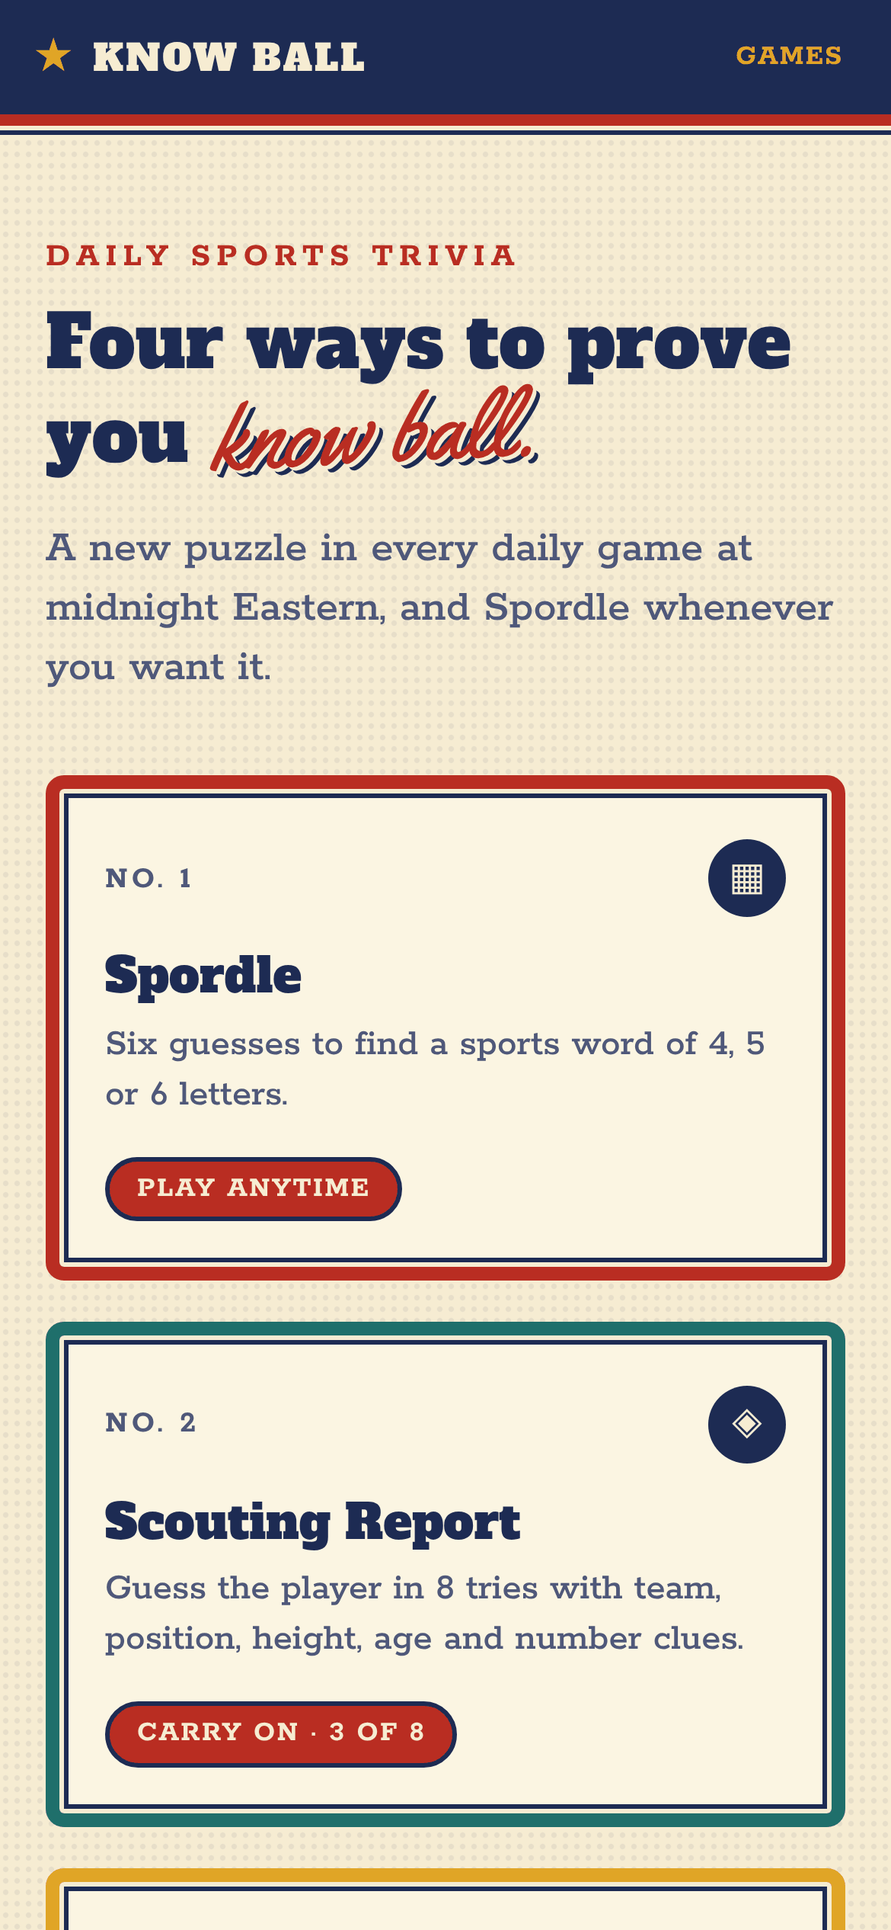
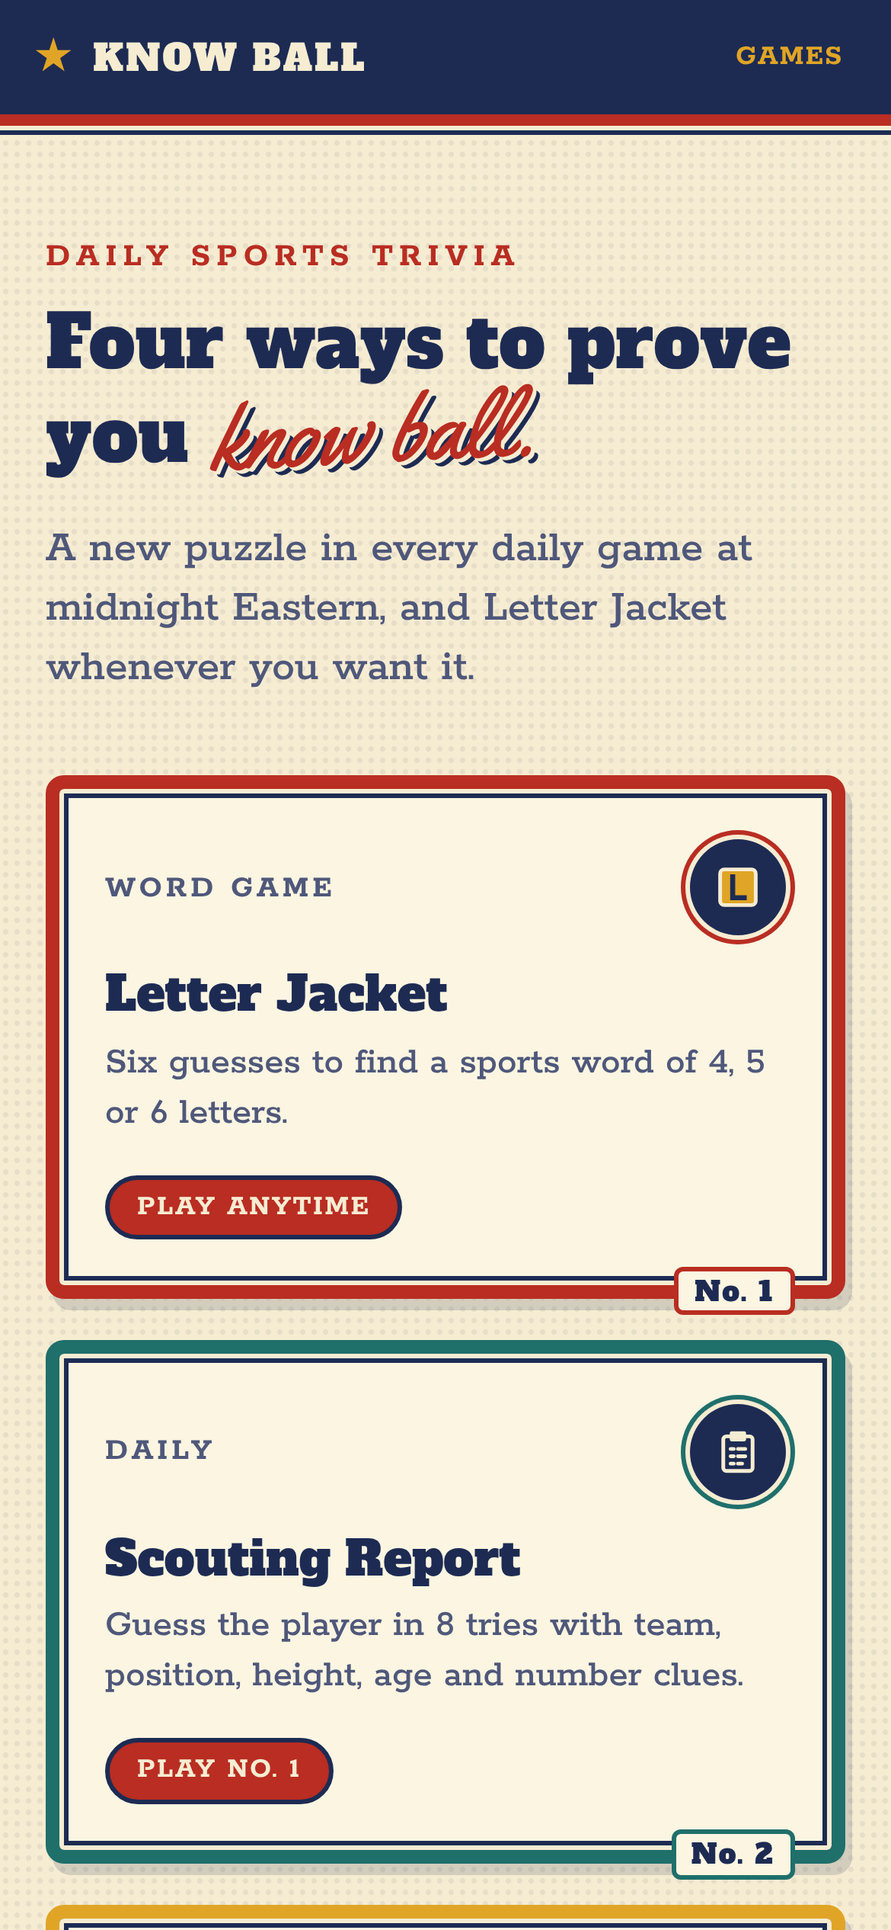
Rename the word game to Letter Jacket and clear naming risks
- Show Spordle as Letter Jacket at /letter-jacket; /spordle redirects. The
  API, settings, stored data and code keep the Spordle name.
- Share results with Know Ball's own dot marks instead of coloured squares.
- Retire the Sportle working name in favour of Back of the Card.
- Add "Not affiliated with or endorsed by the NBA, NFL, MLB or NHL." to the
  footer and README.
- Drop source game names from comments and docs; record the name check in
  docs/research.md and a naming rule in AGENTS.md.
- Refresh the social card, manifest, sitemap, metadata and screenshots.

Claude-Session: https://claude.ai/code/session_01LorK6ftoP2WkdhhDNAoGc3

diff --git a/web/know-ball/src/app/games/spordle/spordle.ts b/web/know-ball/src/app/games/spordle/spordle.ts
@@ -4,15 +4,26 @@ import { NextGame } from '../../shared/next-game/next-game';
 import { Tilt } from '../../shared/tilt/tilt';
 import { SpordleKeyboard } from './keyboard';
 import { HintType } from './spordle-api';
-import { MAX_ATTEMPTS, SpordleGame } from './spordle-game';
+import { Attempt, MAX_ATTEMPTS, SpordleGame } from './spordle-game';
+import { LetterStatus } from './scoring';
 import { WORD_LENGTHS, WordLength, formatTime, getStats, resetStats } from './spordle-stats';
 import { SpordleGrid } from './word-grid';
 
 const MESSAGE_MS = 3000;
 
+/** Know Ball's own share marks: a filled dot for a letter in its spot, half for elsewhere, empty for a miss. */
+export const SHARE_MARKS: Record<LetterStatus, string> = { correct: '●', present: '◐', absent: '○' };
+
+/** The text a finished game shares: a headline, one row of marks per guess, and the link. */
+export function shareResult(attempts: readonly Attempt[], won: boolean, wordLength: number): string {
+  const rows = attempts.map((a) => a.score.map((s) => SHARE_MARKS[s]).join(' '));
+  return [`Know Ball · Letter Jacket ${won ? attempts.length : 'X'}/${MAX_ATTEMPTS} (${wordLength} letters)`, ...rows,
+    'https://knowball.nathanzimmerman.com/letter-jacket'].join('\n');
+}
+
 /**
- * Spordle: guess the sports word in six tries. Plays like Nerdle (random word per game,
- * 4, 5 or 6 letters, category and letter hints, stats per word length) in Know Ball's look.
+ * Letter Jacket (called Spordle in the code): guess the sports word in six tries. A random word per
+ * game, 4, 5 or 6 letters, category and letter hints, and stats per word length, in Know Ball's look.
  */
 @Component({
   selector: 'app-spordle',
@@ -20,9 +31,9 @@ const MESSAGE_MS = 3000;
   providers: [SpordleGame],
   host: { '(window:keydown)': 'onKeydown($event)' },
   template: `
-    <section class="spordle" aria-label="Spordle game">
+    <section class="spordle" aria-label="Letter Jacket game">
       <header class="top kb-game-top">
-        <h1 class="kb-wordmark">Spordle</h1>
+        <h1 class="kb-wordmark">Letter Jacket</h1>
         <div class="kb-icons">
           <button type="button" class="kb-icon" aria-label="How to play" title="How to play" (mousedown)="$event.preventDefault()" (click)="open(helpDialog)">?</button>
           <button type="button" class="kb-icon" aria-label="Stats" title="Stats" (mousedown)="$event.preventDefault()" (click)="openStats()">
@@ -92,7 +103,7 @@ const MESSAGE_MS = 3000;
           <div class="kb-result-next">
             <button type="button" class="kb-btn primary" (mousedown)="$event.preventDefault()" (click)="share()">{{ shareLabel() }}</button>
             <button type="button" class="kb-btn" (mousedown)="$event.preventDefault()" (click)="requestNewGame()">Play again</button>
-            <app-next-game current="spordle" />
+            <app-next-game current="letter-jacket" />
           </div>
         </div>
       } @else {
@@ -423,10 +434,7 @@ export class Spordle {
   protected async share(): Promise<void> {
     const result = this.game.result();
     if (!result) return;
-    const rows = this.game.attempts().map((a) => a.score.map((s) => (s === 'correct' ? '🟩' : s === 'present' ? '🟨' : '⬜')).join(''));
-    const text = [`Know Ball · Spordle ${result.won ? result.guesses : 'X'}/6 (${this.game.wordLength()} letters)`, ...rows,
-      'https://knowball.nathanzimmerman.com/spordle'].join('\n');
-    const outcome = await shareText(text);
+    const outcome = await shareText(shareResult(this.game.attempts(), result.won, this.game.wordLength()));
     this.shareLabel.set(outcome === 'copied' ? 'Copied' : outcome === 'failed' ? 'Could not copy' : 'Share');
     if (outcome !== 'shared') setTimeout(() => this.shareLabel.set('Share'), 2500);
   }

diff --git a/web/know-ball/src/app/mockups/games/back-of-the-card.ts b/web/know-ball/src/app/mockups/games/back-of-the-card.ts
@@ -9,11 +9,11 @@ const chartX = (i: number): number => 30 + i * (274 / (PPG.length - 1));
 const chartY = (ppg: number): number => 132 - (ppg - 18) * 7.5;
 
 @Component({
-  selector: 'app-sportle-mock',
+  selector: 'app-back-of-the-card-mock',
   imports: [MockOption],
   template: `
     <section class="mk-game">
-      <h2>Sportle <span class="mk-chip">Phase 3</span></h2>
+      <h2>Back of the Card <span class="mk-chip">Phase 3</span></h2>
       <p class="mk-sub">
         Guess the player from season-by-season numbers with the giveaways hidden. Each miss reveals more: teams first,
         then awards, then position.
@@ -21,10 +21,10 @@ const chartY = (ppg: number): number => 132 - (ppg - 18) * 7.5;
 
       <div class="mk-row">
         <app-mock-option
-          game="sportle"
+          game="back-of-the-card"
           letter="A"
           name="Stat table"
-          bar="Sportle #12"
+          bar="Back of the Card #12"
           plus="Reads like a Basketball-Reference page, which stat fans already know how to scan."
           minus="A wide table on a narrow screen: long careers scroll, and it is the driest of the three."
         >
@@ -53,10 +53,10 @@ const chartY = (ppg: number): number => 132 - (ppg - 18) * 7.5;
         </app-mock-option>
 
         <app-mock-option
-          game="sportle"
+          game="back-of-the-card"
           letter="B"
           name="Trading card back"
-          bar="Sportle #12"
+          bar="Back of the Card #12"
           plus="A strong visual identity of its own, and written hints add personality beyond the numbers."
           minus="Each puzzle needs a few hint lines written or generated, on top of the stats."
         >
@@ -84,10 +84,10 @@ const chartY = (ppg: number): number => 132 - (ppg - 18) * 7.5;
         </app-mock-option>
 
         <app-mock-option
-          game="sportle"
+          game="back-of-the-card"
           letter="C"
           name="Career arc"
-          bar="Sportle #12"
+          bar="Back of the Card #12"
           plus="Shows the shape of a career at a glance; the most original look, and it reuses the charts planned for GOAT."
           minus="One stat at a time, so there is less to go on per screen; needs a charting library."
         >
@@ -161,7 +161,7 @@ const chartY = (ppg: number): number => 132 - (ppg - 18) * 7.5;
     .season span { margin-left: auto; color: var(--muted); font-size: 12px; }
   `,
 })
-export class SportleMock {
+export class BackOfTheCardMock {
   protected readonly rows = [
     { season: '07–08', team: 'SEA', gp: 80, pts: '20.3', reb: '4.4', ast: '2.4', award: 'ROY' },
     { season: '09–10', team: 'OKC', gp: 82, pts: '30.1', reb: '7.6', ast: '2.8', award: 'All-NBA' },

diff --git a/web/know-ball/src/app/pages/home/home.ts b/web/know-ball/src/app/pages/home/home.ts
@@ -52,7 +52,7 @@ const COUNT_WORDS = ['No', 'One', 'Two', 'Three', 'Four'];
     <section class="hero">
       <p class="kicker">Daily sports trivia</p>
       <h1>{{ countWord() }} ways to prove you <span class="script">know ball.</span></h1>
-      <p class="lede">A new puzzle in every daily game at midnight Eastern, and Spordle whenever you want it.</p>
+      <p class="lede">A new puzzle in every daily game at midnight Eastern, and Letter Jacket whenever you want it.</p>
     </section>
 
     <ul class="grid" aria-label="Games">
@@ -69,7 +69,7 @@ const COUNT_WORDS = ['No', 'One', 'Two', 'Three', 'Four'];
                 @switch (card.icon) {
                   @case ('tile') {
                     <rect x="3.5" y="3.5" width="17" height="17" rx="2" fill="var(--mustard)" stroke="var(--cream)" />
-                    <path d="M14.8 8.3c-.6-.8-1.6-1.2-2.8-1.2-1.7 0-2.9.9-2.9 2.2 0 3 6 1.6 6 4.6 0 1.4-1.3 2.4-3.1 2.4-1.3 0-2.4-.5-3-1.4" stroke="var(--navy)" stroke-width="2.2" />
+                    <path d="M9.5 7v10h5.5" stroke="var(--navy)" stroke-width="2.4" stroke-linecap="square" stroke-linejoin="miter" />
                   }
                   @case ('clipboard') {
                     <rect x="5" y="4.5" width="14" height="16.5" rx="1.5" />
@@ -185,7 +185,7 @@ const COUNT_WORDS = ['No', 'One', 'Two', 'Three', 'Four'];
 export class Home {
   /** The four games, in the order the home page shows them. */
   private readonly games: GameCard[] = [
-    { name: 'Spordle', kind: 'Word game', link: '/spordle', icon: 'tile', trim: 'var(--red)', blurb: 'Six guesses to find a sports word of 4, 5 or 6 letters.' },
+    { name: 'Letter Jacket', kind: 'Word game', link: '/letter-jacket', icon: 'tile', trim: 'var(--red)', blurb: 'Six guesses to find a sports word of 4, 5 or 6 letters.' },
     {
       name: 'Scouting Report', kind: 'Daily', link: '/scouting-report', daily: 'scouting-report', icon: 'clipboard', trim: 'var(--teal)',
       blurb: 'Guess the player in 8 tries with team, position, height, age and number clues.',
@@ -199,7 +199,7 @@ export class Home {
   ];
 
   /** Designed but not scheduled; replay numbers after version 1 decide which comes first. */
-  protected readonly later = ['Geo Sports', 'Sportle', 'Sound It Out', "Who's the GOAT?"];
+  protected readonly later = ['Geo Sports', 'Back of the Card', 'Sound It Out', "Who's the GOAT?"];
 
   // Undefined while checking availability; null after a failed request.
   private readonly today = signal<TodayEntry[] | null | undefined>(undefined);

diff --git a/web/know-ball/src/app/games/spordle/spordle.spec.ts b/web/know-ball/src/app/games/spordle/spordle.spec.ts
@@ -2,9 +2,9 @@ import { provideHttpClient, withXhr } from '@angular/common/http';
 import { HttpTestingController, provideHttpClientTesting } from '@angular/common/http/testing';
 import { ComponentFixture, TestBed } from '@angular/core/testing';
 import { useMemoryStorage } from './memory-storage';
-import { Spordle } from './spordle';
+import { Spordle, shareResult } from './spordle';
 
-describe('Spordle page', () => {
+describe('Letter Jacket page', () => {
   let fixture: ComponentFixture<Spordle>;
   let http: HttpTestingController;
   let el: HTMLElement;
@@ -29,7 +29,7 @@ describe('Spordle page', () => {
   afterEach(() => http.verify());
 
   it('starts a game and shows the board, keyboard and hint buttons', () => {
-    expect(el.querySelector('h1')?.textContent).toBe('Spordle');
+    expect(el.querySelector('h1')?.textContent).toBe('Letter Jacket');
     expect(el.querySelectorAll('.row').length).toBe(6);
     expect(el.querySelectorAll('.key').length).toBe(28);
     expect(el.querySelector('.status')?.textContent).toBe('Guess 1 of 6');
@@ -76,5 +76,27 @@ describe('Spordle page', () => {
 
     expect(el.querySelectorAll('.row.active .tile').length).toBe(6);
     expect(six.getAttribute('aria-pressed')).toBe('true');
+  });
+});
+
+describe('Letter Jacket share text', () => {
+  it('uses Know Ball marks rather than coloured squares', () => {
+    const text = shareResult([
+      { word: 'blitz', score: ['correct', 'present', 'absent', 'absent', 'correct'] },
+      { word: 'bunts', score: ['correct', 'correct', 'correct', 'correct', 'correct'] },
+    ], true, 5);
+
+    expect(text).toBe([
+      'Know Ball · Letter Jacket 2/6 (5 letters)',
+      '● ◐ ○ ○ ●',
+      '● ● ● ● ●',
+      'https://knowball.nathanzimmerman.com/letter-jacket',
+    ].join('\n'));
+    expect(text).not.toMatch(/[\u{1F7E9}\u{1F7E8}\u2B1C]/u);
+  });
+
+  it('marks a loss with an X', () => {
+    const miss = { word: 'bunts', score: Array(5).fill('absent') };
+    expect(shareResult(Array(6).fill(miss), false, 5).split('\n')[0]).toBe('Know Ball · Letter Jacket X/6 (5 letters)');
   });
 });

diff --git a/web/know-ball/src/app/core/page-meta.spec.ts b/web/know-ball/src/app/core/page-meta.spec.ts
@@ -22,7 +22,7 @@ describe('page meta', () => {
       providers: [
         provideRouter([
           { path: '', component: Blank },
-          { path: 'spordle', component: Blank, data: { description: 'Find the word.' } satisfies PageMetaData },
+          { path: 'letter-jacket', component: Blank, data: { description: 'Find the word.' } satisfies PageMetaData },
           { path: 'career-path/puzzle/:id', component: Blank, data: { noindex: true } satisfies PageMetaData },
           {
             path: 'mockups',
@@ -40,15 +40,15 @@ describe('page meta', () => {
   const meta = (name: string) => document.head.querySelector<HTMLMetaElement>(`meta[name="${name}"]`)?.content;
 
   it('files each page under its own public address, without query or fragment', async () => {
-    await router.navigateByUrl('/spordle?practice=1#board');
+    await router.navigateByUrl('/letter-jacket?practice=1#board');
 
-    expect(canonical()).toBe('https://knowball.nathanzimmerman.com/spordle');
+    expect(canonical()).toBe('https://knowball.nathanzimmerman.com/letter-jacket');
     expect(meta('description')).toBe('Find the word.');
     expect(meta('robots')).toBeUndefined();
   });
 
   it("uses the home page's description where a route has none", async () => {
-    await router.navigateByUrl('/spordle');
+    await router.navigateByUrl('/letter-jacket');
     await router.navigateByUrl('/');
 
     expect(canonical()).toBe('https://knowball.nathanzimmerman.com/');
@@ -63,8 +63,8 @@ describe('page meta', () => {
     await router.navigateByUrl('/mockups/themes');
     expect(meta('robots')).toBe('noindex');
 
-    await router.navigateByUrl('/spordle');
+    await router.navigateByUrl('/letter-jacket');
     expect(meta('robots')).toBeUndefined();
-    expect(canonical()).toBe('https://knowball.nathanzimmerman.com/spordle');
+    expect(canonical()).toBe('https://knowball.nathanzimmerman.com/letter-jacket');
   });
 });

diff --git a/web/know-ball/src/app/pages/home/home.spec.ts b/web/know-ball/src/app/pages/home/home.spec.ts
@@ -40,9 +40,9 @@ describe('Home', () => {
       entry({ game: 'career-path', name: 'Career Path', status: 'won', guesses: 2, maxGuesses: 6 }),
     ]);
 
-    expect([...el.querySelectorAll('.grid h2')].map((h) => h.textContent)).toEqual(['Spordle', 'Scouting Report', 'Career Path', "Numbers Don't Lie"]);
+    expect([...el.querySelectorAll('.grid h2')].map((h) => h.textContent)).toEqual(['Letter Jacket', 'Scouting Report', 'Career Path', "Numbers Don't Lie"]);
     expect(badges(el)).toEqual(['Play anytime', 'Carry on · 3 of 8', 'Solved in 2', "Play today's quiz"]);
-    expect([...el.querySelectorAll('a.badge')].map((a) => a.getAttribute('href'))).toEqual(['/spordle', '/scouting-report', '/career-path', '/numbers-dont-lie']);
+    expect([...el.querySelectorAll('a.badge')].map((a) => a.getAttribute('href'))).toEqual(['/letter-jacket', '/scouting-report', '/career-path', '/numbers-dont-lie']);
     expect(el.querySelector('h1')?.textContent).toContain('Four ways');
     expect(el.querySelector('.badge.done')?.textContent?.trim()).toBe('Solved in 2');
     // A daily won today turns foil; the others stay plain card stock.
@@ -76,7 +76,7 @@ describe('Home', () => {
     await fixture.whenStable();
     const el = fixture.nativeElement as HTMLElement;
     expect(badges(el)).toEqual(['Play anytime', 'Checking today…', 'Checking today…', "Play today's quiz"]);
-    expect([...el.querySelectorAll('a.badge')].map((a) => a.getAttribute('href'))).toEqual(['/spordle', '/numbers-dont-lie']);
+    expect([...el.querySelectorAll('a.badge')].map((a) => a.getAttribute('href'))).toEqual(['/letter-jacket', '/numbers-dont-lie']);
 
     TestBed.inject(HttpTestingController).expectOne('/api/me/today').flush([
       entry({}), entry({ game: 'career-path', available: false, number: null }),

diff --git a/web/know-ball/src/app/mockups/themes/themes.ts b/web/know-ball/src/app/mockups/themes/themes.ts
@@ -33,7 +33,7 @@ const FONTS = [
   'Yellowtail',
 ];
 
-/** One game, nine looks: the same Spordle screen in every candidate theme. */
+/** One game, nine looks: the same Letter Jacket screen in every candidate theme. */
 @Component({
   selector: 'app-themes-mock',
   imports: [
@@ -53,7 +53,7 @@ const FONTS = [
     <section class="mk-game">
       <h2>Themes <span class="mk-chip">Whole site</span></h2>
       <p class="mk-sub">
-        The same Spordle screen, three guesses into a game, in nine different looks. Trading Card (I) was chosen
+        The same Letter Jacket screen, three guesses into a game, in nine different looks. Trading Card (I) was chosen
         and is now the app's theme; A is the look it replaced. B and C follow boringcashcow.com and your sudoku.
         The preview pulls its fonts from Google Fonts.
       </p>
@@ -152,7 +152,7 @@ const FONTS = [
           letter="I"
           name="Trading Card (chosen)"
           bare
-          plus="Warm and nostalgic; Scouting Report, Sportle and the silhouette game could each be a card."
+          plus="Warm and nostalgic; Scouting Report, Back of the Card and the other games could each be a card."
           minus="Heavy borders eat screen width on phones, and the retro look skews toward baseball."
         >
           <app-theme-trading-card />

diff --git a/web/know-ball/e2e/portfolio-polish.spec.ts b/web/know-ball/e2e/portfolio-polish.spec.ts
@@ -87,8 +87,8 @@ test('unaccented searches find accented player names in both daily games', async
 });
 
 for (const action of ['4 letters', 'New game']) {
-  test(`Spordle confirms abandonment before ${action} and records the loss only when accepted`, async ({ page }) => {
-    await page.goto('/spordle');
+  test(`Letter Jacket confirms abandonment before ${action} and records the loss only when accepted`, async ({ page }) => {
+    await page.goto('/letter-jacket');
     await expect(page.locator('.status')).toHaveText('Guess 1 of 6');
     await page.keyboard.type('about');
     await page.keyboard.press('Enter');
@@ -107,8 +107,8 @@ for (const action of ['4 letters', 'New game']) {
 }
 
 for (const endpoint of ['guesses', 'hint']) {
-  test(`an expired Spordle ${endpoint} offers recovery without recording a loss`, async ({ page }) => {
-    await page.goto('/spordle');
+  test(`an expired Letter Jacket ${endpoint} offers recovery without recording a loss`, async ({ page }) => {
+    await page.goto('/letter-jacket');
     await expect(page.locator('.status')).toHaveText('Guess 1 of 6');
     await page.route(`**/api/spordle/games/*/${endpoint}`, (route) => route.fulfill({ status: 404, json: { error: 'Game not found or expired' } }));
     if (endpoint === 'guesses') {

diff --git a/web/know-ball/src/index.html b/web/know-ball/src/index.html
@@ -10,12 +10,12 @@
   <meta property="og:type" content="website">
   <meta property="og:site_name" content="Know Ball">
   <meta property="og:title" content="Know Ball — Daily Sports Trivia">
-  <meta property="og:description" content="Four ways to prove you know ball: Scouting Report, Career Path, Spordle, and Numbers Don't Lie.">
+  <meta property="og:description" content="Four ways to prove you know ball: Scouting Report, Career Path, Letter Jacket, and Numbers Don't Lie.">
   <meta property="og:url" content="https://knowball.nathanzimmerman.com/">
   <meta property="og:image" content="https://knowball.nathanzimmerman.com/social-card.png">
   <meta property="og:image:width" content="1200">
   <meta property="og:image:height" content="630">
-  <meta property="og:image:alt" content="Know Ball. Four ways to prove you know ball: Spordle, Scouting Report, Career Path, and Numbers Don't Lie.">
+  <meta property="og:image:alt" content="Know Ball. Four ways to prove you know ball: Letter Jacket, Scouting Report, Career Path, and Numbers Don't Lie.">
   <meta name="twitter:card" content="summary_large_image">
   <link rel="icon" type="image/svg+xml" href="favicon.svg">
   <link rel="manifest" href="manifest.webmanifest">

diff --git a/web/know-ball/e2e/availability.spec.ts b/web/know-ball/e2e/availability.spec.ts
@@ -44,7 +44,7 @@ for (const width of [390, 1280]) {
   test(`game titles clear the banner at ${width}px`, async ({ page }) => {
     await page.setViewportSize({ width, height: 844 });
     await page.route('**/api/**', (route) => route.fulfill({ status: 404, json: { error: missing } }));
-    for (const slug of ['scouting-report', 'career-path', 'spordle']) {
+    for (const slug of ['scouting-report', 'career-path', 'letter-jacket']) {
       await page.goto(`/${slug}`);
       await page.evaluate(() => document.fonts.ready);
       const banner = await page.locator('app-root > header').boundingBox();
@@ -63,6 +63,6 @@ test('old photo-game and admin bookmarks return to the four-game home page', asy
   for (const path of ['/whos-that', '/whos-that/puzzle/1', '/admin']) {
     await page.goto(path);
     await expect(page).toHaveURL(/\/$/);
-    await expect(page.getByRole('list', { name: 'Games' }).getByRole('heading', { level: 2 })).toHaveText(['Spordle', 'Scouting Report', 'Career Path', "Numbers Don't Lie"]);
+    await expect(page.getByRole('list', { name: 'Games' }).getByRole('heading', { level: 2 })).toHaveText(['Letter Jacket', 'Scouting Report', 'Career Path', "Numbers Don't Lie"]);
   }
 });

diff --git a/web/know-ball/e2e/spordle.spec.ts b/web/know-ball/e2e/spordle.spec.ts
@@ -11,7 +11,7 @@ const bank: Record<string, string> = JSON.parse(
 );
 
 test.beforeEach(async ({ page }) => {
-  await page.goto('/spordle');
+  await page.goto('/letter-jacket');
   await expect(page.getByRole('status').filter({ hasText: 'Guess 1 of 6' })).toBeVisible();
 });
 
@@ -171,7 +171,7 @@ async function submit(page: Page, word: string): Promise<Status[]> {
   return body.score;
 }
 
-/** Wordle scoring, as the server does it: repeated letters are only marked present while unmatched. */
+/** The scoring the server uses: repeated letters are only marked present while unmatched. */
 function scoreOf(answer: string, guess: string): Status[] {
   const score: Status[] = [...guess].map((c, i) => (c === answer[i] ? 'correct' : 'absent'));
   const unmatched = new Map<string, number>();
@@ -183,3 +183,9 @@ function scoreOf(answer: string, guess: string): Status[] {
   });
   return score;
 }
+
+test('old Spordle links land on Letter Jacket', async ({ page }) => {
+  await page.goto('/spordle');
+  await expect(page).toHaveURL(/\/letter-jacket$/);
+  await expect(page.getByRole('heading', { level: 1 })).toHaveText('Letter Jacket');
+});

diff --git a/web/know-ball/src/app/mockups/mockups.routes.ts b/web/know-ball/src/app/mockups/mockups.routes.ts
@@ -2,7 +2,7 @@ import { Routes } from '@angular/router';
 import { GeoSportsMock } from './games/geo-sports';
 import { GoatMock } from './games/goat';
 import { SoundItOutMock } from './games/sound-it-out';
-import { SportleMock } from './games/sportle';
+import { BackOfTheCardMock } from './games/back-of-the-card';
 import { StatQuizMock } from './games/stat-quiz';
 import { Mockups } from './mockups';
 import { ThemesMock } from './themes/themes';
@@ -17,7 +17,7 @@ export const MOCKUP_ROUTES: Routes = [
       { path: 'themes', component: ThemesMock },
       { path: 'stat-quiz', component: StatQuizMock },
       { path: 'geo-sports', component: GeoSportsMock },
-      { path: 'sportle', component: SportleMock },
+      { path: 'back-of-the-card', component: BackOfTheCardMock },
       { path: 'sound-it-out', component: SoundItOutMock },
       { path: 'goat', component: GoatMock },
     ],
